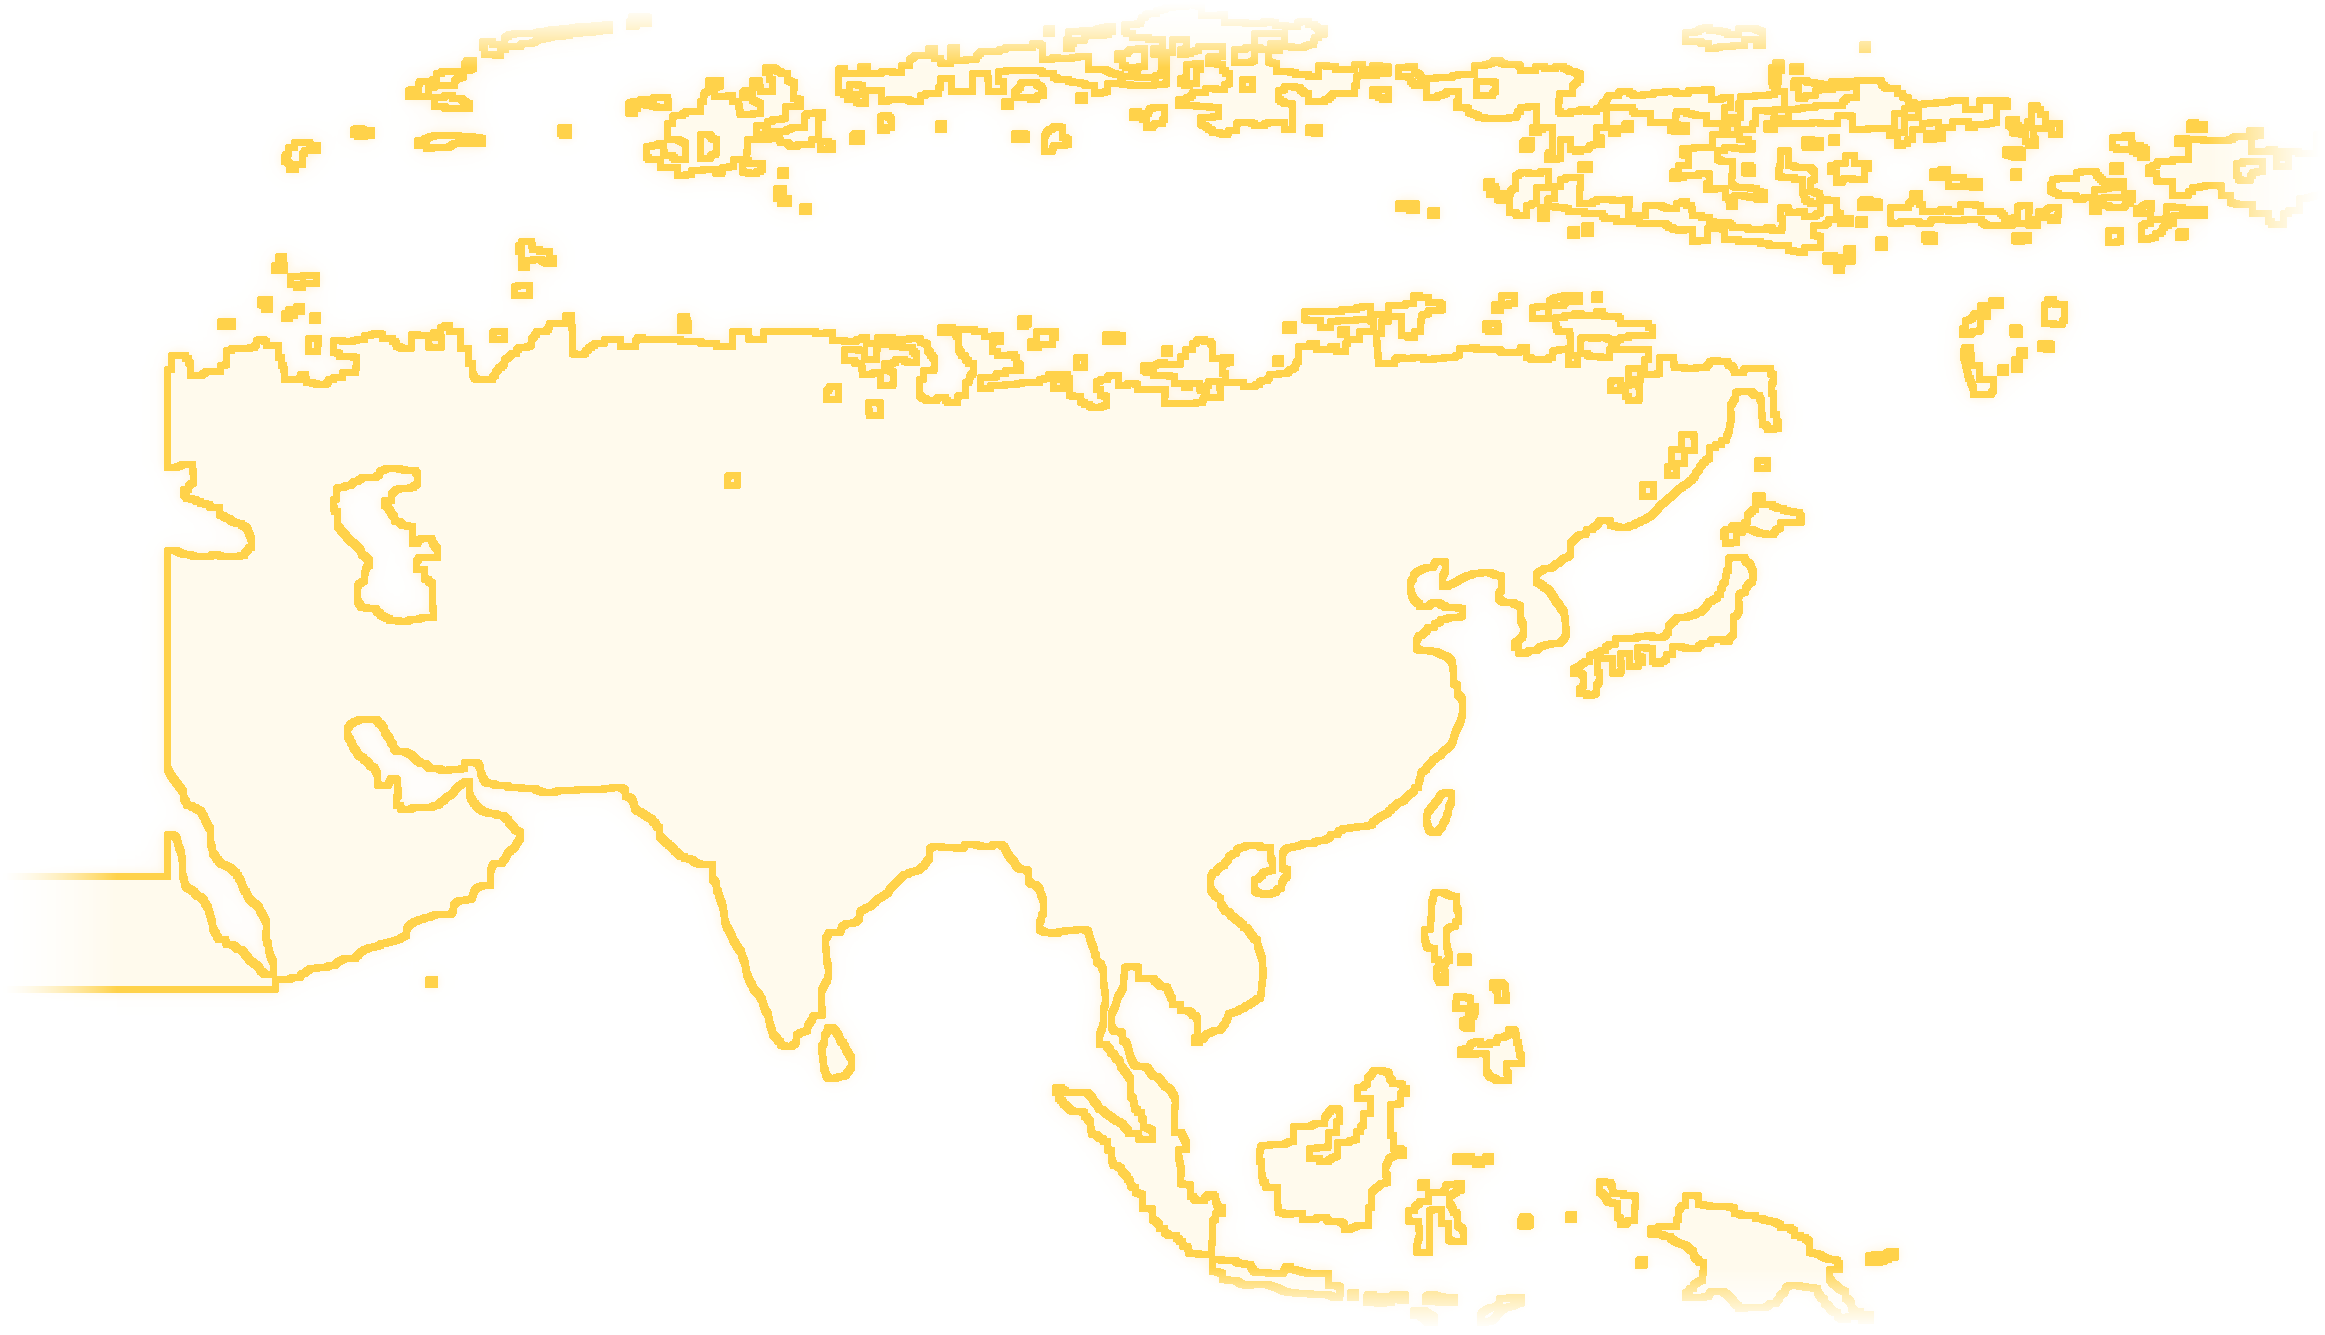
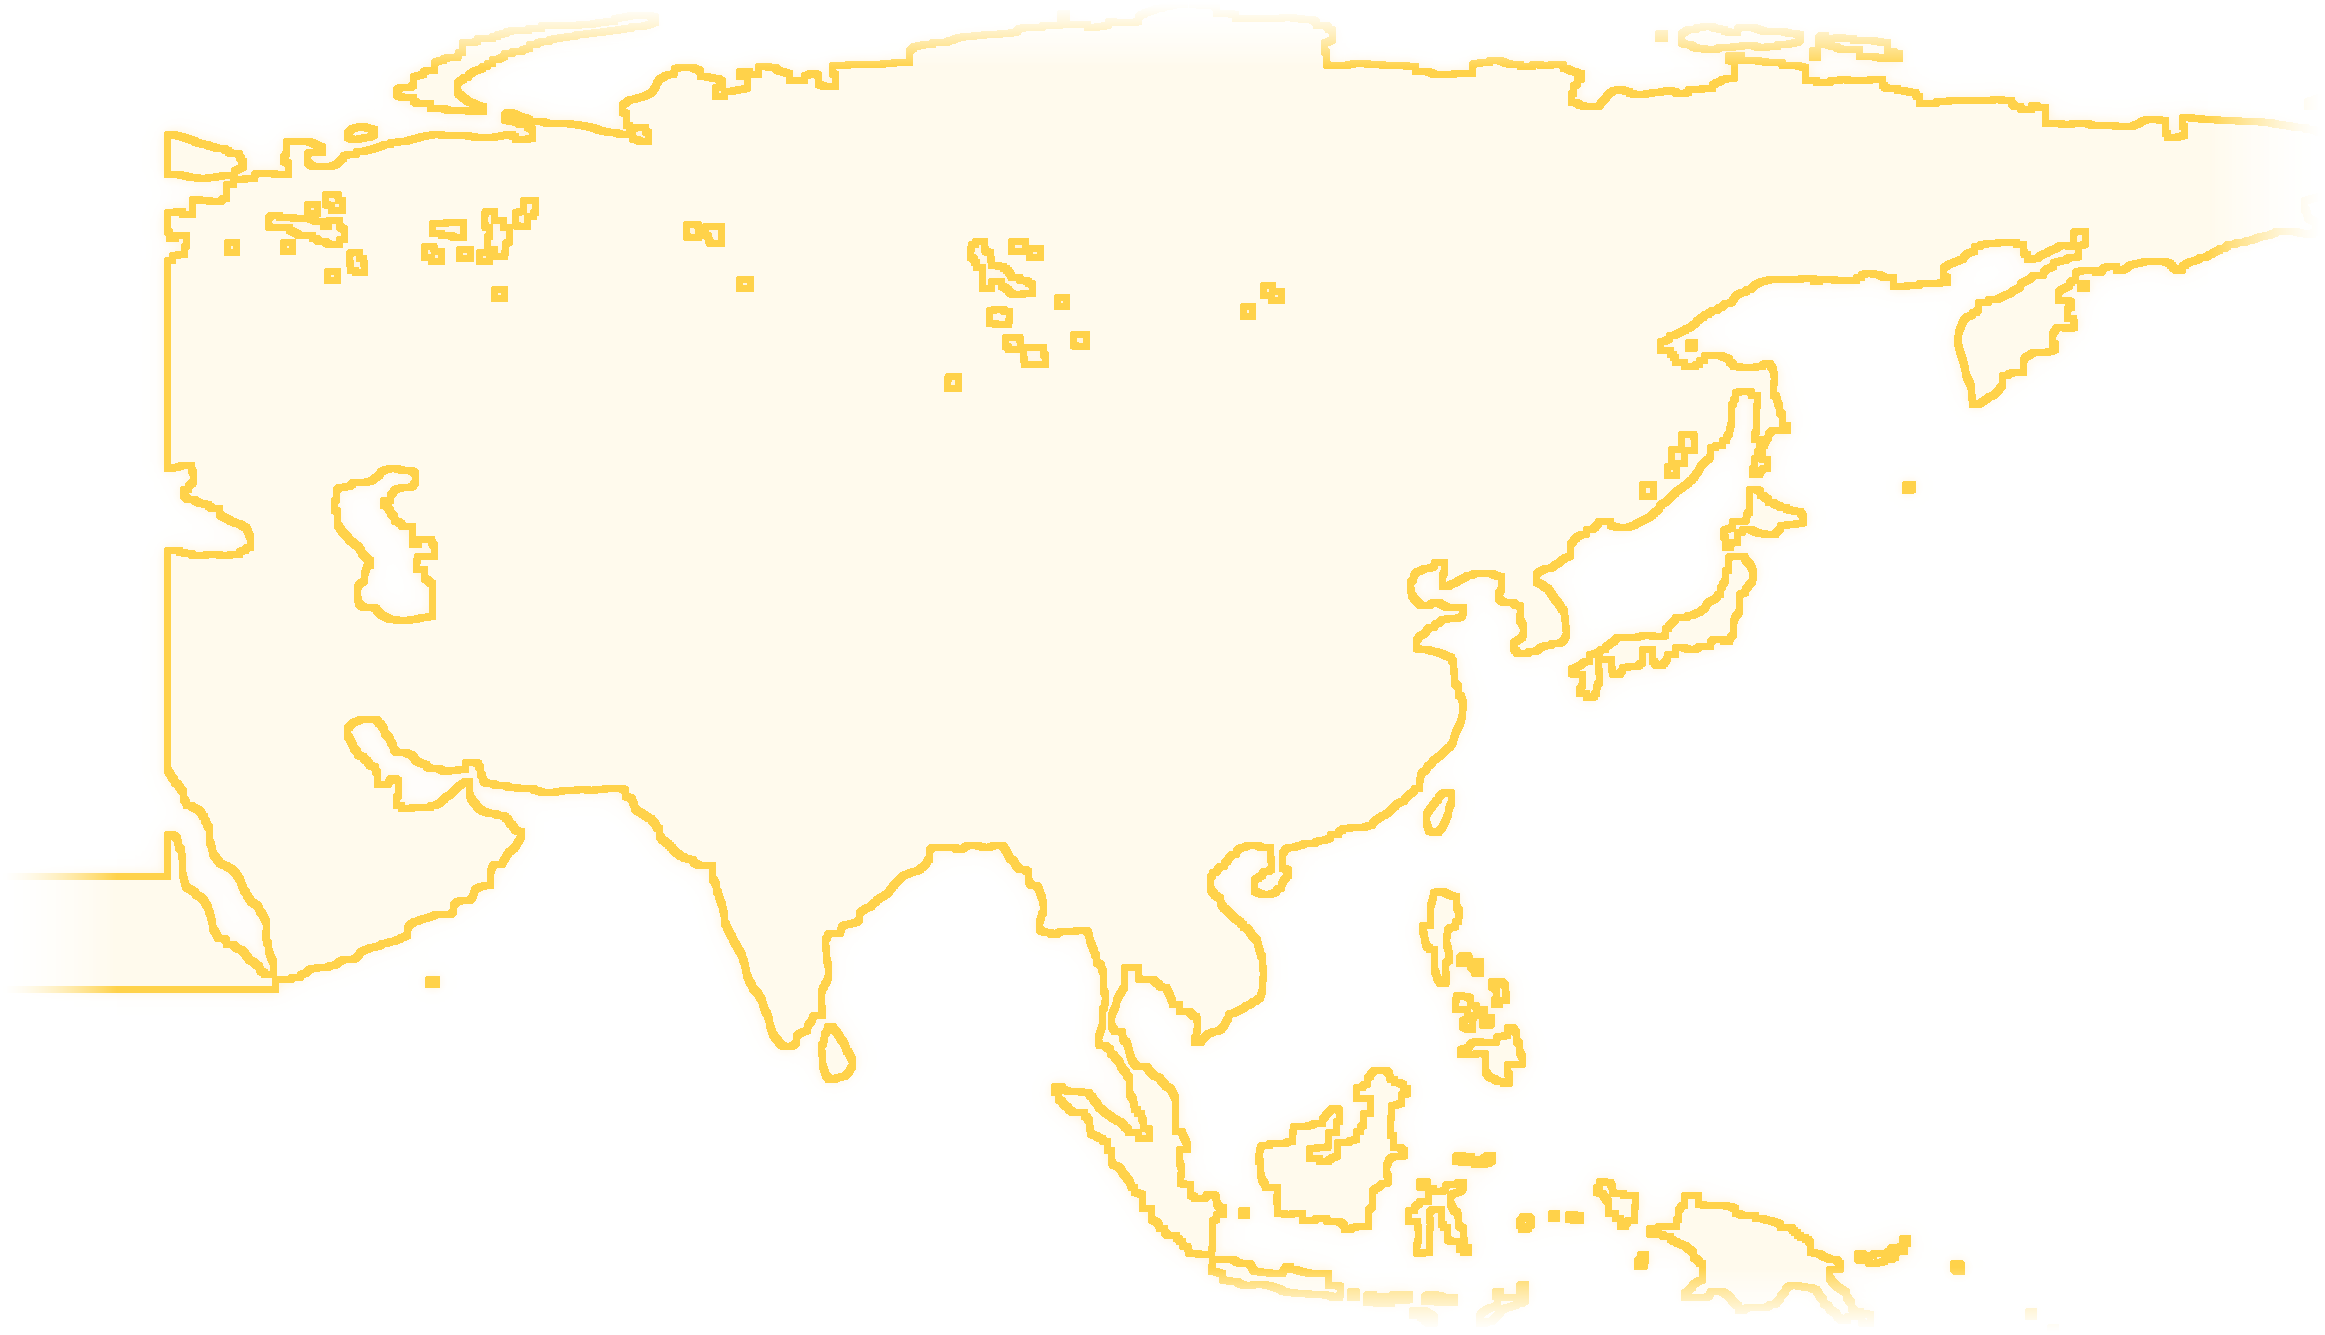
viz: whip2 softer ghost + brighter warm, bigger 0.42x; assets: clean ocean mask + white Antarctica

diff --git a/index.html b/index.html
@@ -262,7 +262,7 @@
 
       /* 1.5x */
       #t-15x {
-        font-size: 150px;
+        font-size: 205px;
         font-weight: 800;
         color: #ffd84d;
         line-height: 1;
@@ -576,7 +576,7 @@
               col *= mix(1.0, uOceanDark, w);
             }
             col *= uExposure * uDim;
-            col *= mix(vec3(1.0), vec3(1.35, 1.02, 0.5), uWarm);
+            col *= mix(vec3(1.0), vec3(1.45, 1.1, 0.6), uWarm);
             col = enc(col);
             float d = length((uv - vec2(0.5)) * vec2(1.0, 0.72));
             col *= 1.0 - smoothstep(0.45, 0.95, d) * uVig;
@@ -1121,11 +1121,11 @@
         applyCam(c);
 
         let stylize = 6.5;
-        if (t > 20.2 && t < 22.5) stylize = 30;
+        if (t > 20.2 && t < 22.5) stylize = 14;
         let dx = (px2 - px1) * stylize;
         let dy = -(py2 - py1) * stylize;
         const panLen = Math.hypot(dx, dy);
-        const BLUR_CAP = 240;
+        const BLUR_CAP = 150;
         if (panLen > BLUR_CAP) {
           dx *= BLUR_CAP / panLen;
           dy *= BLUR_CAP / panLen;
@@ -1150,7 +1150,7 @@
         let dim = 1;
         if (t < 3.15) dim = Math.min(dim, 0.45 + 0.55 * win(t, 2.4, 3.15));
         const whip2 = win(t, 20.1, 20.55) * (1 - win(t, 22.5, 23.05));
-        dim = Math.min(dim, 1 - 0.55 * whip2);
+        dim = Math.min(dim, 1 - 0.18 * whip2);
         postMat.uniforms.uDim.value = dim;
         postMat.uniforms.uWarm.value = 0.85 * whip2;
         postMat.uniforms.uGrain.value =
